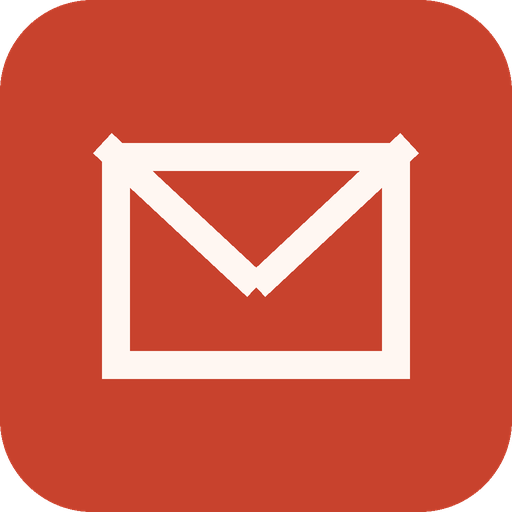
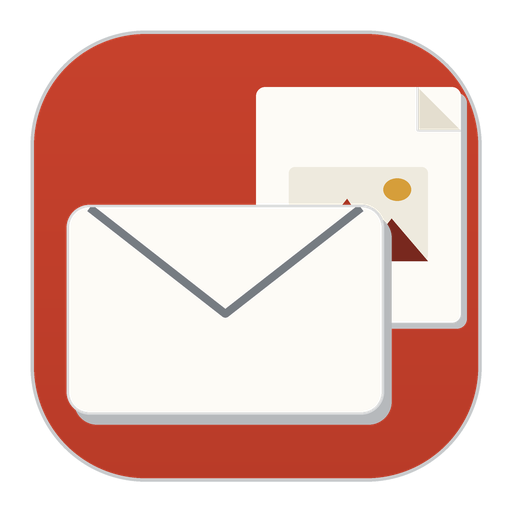
feat: 产品更名「邮箱资料助手」+ 新应用图标（信封/图稿）；NSIS 强制创建桌面与开始菜单快捷方式（中文名+图标）

diff --git a/src/main/index.ts b/src/main/index.ts
@@ -172,7 +172,7 @@ async function createWindow(): Promise<void> {
     minWidth: 1280,
     minHeight: 780,
     show: false,
-    title: 'MailHarbor',
+    title: '邮箱资料助手',
     backgroundColor: '#FAF7F0',
     autoHideMenuBar: true,
     webPreferences: {
@@ -219,7 +219,7 @@ function createTray(): void {
   const iconPath = resolveTrayIcon()
   const img = iconPath ? nativeImage.createFromPath(iconPath) : nativeImage.createEmpty()
   tray = new Tray(img.isEmpty() ? nativeImage.createEmpty() : img)
-  tray.setToolTip('MailHarbor · 邮件收货助手')
+  tray.setToolTip('邮箱资料助手')
   tray.on('double-click', () => showWindow())
   tray.on('click', () => showWindow())
   refreshTray()
@@ -253,7 +253,7 @@ function refreshTray(): void {
     },
     { type: 'separator' },
     {
-      label: '退出 MailHarbor',
+      label: '退出邮箱资料助手',
       click: () => {
         quitting = true
         app.quit()

diff --git a/src/renderer/index.html b/src/renderer/index.html
@@ -4,7 +4,7 @@
     <meta charset="UTF-8" />
     <meta name="viewport" content="width=device-width, initial-scale=1.0" />
     <meta http-equiv="Content-Security-Policy" content="default-src 'self'; style-src 'self' 'unsafe-inline'; img-src 'self' data:; script-src 'self'; connect-src 'self'" />
-    <title>MailHarbor · 邮件收货助手</title>
+    <title>邮箱资料助手</title>
   </head>
   <body>
     <div id="root"></div>

diff --git a/src/renderer/components/Sidebar.tsx b/src/renderer/components/Sidebar.tsx
@@ -75,8 +75,8 @@ export function Sidebar(): JSX.Element {
           <BrandMark size={26} />
         </span>
         <div>
-          <div className="brand-name">MailHarbor</div>
-          <div className="brand-sub">邮件附件自动归档</div>
+          <div className="brand-name">邮箱资料助手</div>
+          <div className="brand-sub">客户邮件自动归档</div>
         </div>
       </div>
 

diff --git a/scripts/make-icon.py b/scripts/make-icon.py
@@ -1,0 +1,108 @@
+#!/usr/bin/env python3
+"""生成「邮箱资料助手」应用图标（1024 PNG + 多尺寸 ICO + 托盘图标）。
+
+图形：朱红圆角底 + 白色信封（V 形封口）+ 右上角探出的图稿纸（折角 + 图片符号）。
+含义：邮件里收到图稿 → 自动归档。小尺寸下先看得清「信封」，再看清「纸」。
+"""
+from PIL import Image, ImageDraw
+from pathlib import Path
+
+ROOT = Path(__file__).resolve().parent.parent
+RES = ROOT / 'resources'
+RES.mkdir(exist_ok=True)
+
+S = 2048
+BRAND = (200, 66, 45)
+BRAND_DARK = (156, 47, 32)
+PAPER = (253, 251, 246)
+INK = (22, 32, 43)
+AMBER = (214, 158, 58)
+RED2 = (168, 51, 33)
+
+img = Image.new('RGBA', (S, S), (0, 0, 0, 0))
+pad = int(S * 0.06)
+radius = int(S * 0.225)
+
+# --- 底：圆角方形，竖向渐变（用遮罩裁剪，避免溢出圆角） ---
+base = Image.new('RGBA', (S, S), (0, 0, 0, 0))
+bd = ImageDraw.Draw(base)
+for y in range(S):
+    t = y / S
+    color = tuple(int(BRAND[i] * (1 - t * 0.35) + BRAND_DARK[i] * (t * 0.35)) for i in range(3))
+    bd.line([0, y, S, y], fill=(*color, 255))
+mask = Image.new('L', (S, S), 0)
+ImageDraw.Draw(mask).rounded_rectangle([pad, pad, S - pad, S - pad], radius=radius, fill=255)
+img.paste(base, (0, 0), mask)
+d = ImageDraw.Draw(img)
+
+# 内描边，小尺寸更清晰
+d.rounded_rectangle([pad, pad, S - pad, S - pad], radius=radius, outline=(*INK, 60), width=int(S * 0.007))
+
+# --- 图稿纸（右上，部分藏在信封后） ---
+pw, ph = int(S * 0.40), int(S * 0.46)
+px, py = int(S * 0.50), int(S * 0.17)
+fold = int(S * 0.085)
+# 阴影
+d.rounded_rectangle([px + int(S * 0.012), py + int(S * 0.012), px + pw + int(S * 0.012), py + ph + int(S * 0.012)],
+                    radius=int(S * 0.02), fill=(*INK, 70))
+# 纸
+d.rounded_rectangle([px, py, px + pw, py + ph], radius=int(S * 0.018), fill=PAPER)
+# 折角
+d.polygon([(px + pw - fold, py), (px + pw, py + fold), (px + pw - fold, py + fold)], fill=(228, 222, 207))
+d.line([(px + pw - fold, py), (px + pw - fold, py + fold), (px + pw, py + fold)],
+       fill=(*INK, 45), width=int(S * 0.004))
+
+# 纸上的图片符号：画框 + 山 + 太阳
+mx, my = px + int(pw * 0.16), py + int(ph * 0.34)
+mw, mh = int(pw * 0.68), int(ph * 0.40)
+d.rounded_rectangle([mx, my, mx + mw, my + mh], radius=int(S * 0.012), fill=(238, 234, 222))
+d.ellipse([mx + mw * 0.68, my + int(mh * 0.12), mx + mw * 0.88, my + int(mh * 0.36)], fill=AMBER)
+d.polygon([(mx + int(mw * 0.06), my + mh), (mx + int(mw * 0.42), my + int(mh * 0.34)), (mx + int(mw * 0.72), my + mh)], fill=RED2)
+d.polygon([(mx + int(mw * 0.50), my + mh), (mx + int(mw * 0.74), my + int(mh * 0.55)), (mx + mw, my + mh)], fill=(120, 40, 30))
+
+# --- 信封（左下，主体） ---
+ex0, ey0 = int(S * 0.13), int(S * 0.40)
+ex1, ey1 = int(S * 0.75), int(S * 0.81)
+er = int(S * 0.045)
+# 阴影
+d.rounded_rectangle([ex0 + int(S * 0.015), ey0 + int(S * 0.02), ex1 + int(S * 0.015), ey1 + int(S * 0.02)],
+                    radius=er, fill=(*INK, 80))
+# 信封主体
+d.rounded_rectangle([ex0, ey0, ex1, ey1], radius=er, fill=PAPER)
+# 封口 V（只在上半部分）
+vtop = ey0 + int(S * 0.006)
+vbottom = ey0 + int((ey1 - ey0) * 0.52)
+d.line([(ex0 + er, vtop), ((ex0 + ex1) // 2, vbottom), (ex1 - er, vtop)],
+       fill=(*INK, 150), width=int(S * 0.016), joint='curve')
+# 信封边缘
+d.rounded_rectangle([ex0, ey0, ex1, ey1], radius=er, outline=(*INK, 45), width=int(S * 0.005))
+
+# --- 导出 ---
+big = img.resize((1024, 1024), Image.LANCZOS)
+big.save(RES / 'icon.png')
+big.resize((512, 512), Image.LANCZOS).save(RES / 'icon-512.png')
+sizes = [(256, 256), (128, 128), (64, 64), (48, 48), (32, 32), (16, 16)]
+big.resize((256, 256), Image.LANCZOS).save(RES / 'icon.ico', sizes=sizes)
+
+# 托盘：小尺寸只留信封 + 朱红底
+for size in (16, 32, 64):
+    T = size * 8
+    t = Image.new('RGBA', (T, T), (0, 0, 0, 0))
+    td = ImageDraw.Draw(t)
+    td.rounded_rectangle([0, 0, T - 1, T - 1], radius=int(T * 0.22), fill=BRAND)
+    m = int(T * 0.18)
+    td.rounded_rectangle([m, int(T * 0.3), T - m, int(T * 0.74)], radius=int(T * 0.06), fill=PAPER)
+    td.line([(m + int(T * 0.02), int(T * 0.32)), (T // 2, int(T * 0.55)), (T - m - int(T * 0.02), int(T * 0.32))],
+            fill=(*INK, 200), width=max(2, int(T * 0.045)))
+    t.resize((size, size), Image.LANCZOS).save(RES / f'tray{size}.png')
+    if size == 32:
+        t.resize((32, 32), Image.LANCZOS).save(RES / 'tray.png')
+
+# 预览图（给设计说明/README 用）
+preview = Image.new('RGB', (1200, 420), (250, 247, 240))
+for i, s in enumerate([256, 128, 64, 48, 32, 16]):
+    ic = big.resize((s, s), Image.LANCZOS)
+    x = 60 + i * 190 if i < 5 else 60 + 5 * 190 + 40
+    preview.paste(ic, (x, 90 + (256 - s) // 2), ic)
+preview.save(ROOT / 'design' / 'exports' / 'app-icon-preview.png')
+print('icon.png 1024 | icon.ico 256/128/64/48/32/16 | tray 16/32/64 | preview ok')

diff --git a/README.md b/README.md
@@ -1,6 +1,6 @@
-# MailHarbor · 邮件收货助手
+# 邮箱资料助手（MailHarbor）
 
-> 给 POD（按需印刷定制）工厂用的 Windows 桌面软件：
+> 给 POD（按需印刷定制）工厂用的 Windows 桌面软件「**邮箱资料助手**」（代码仓库名 mailharbor）：
 > **IMAP 收信 → 按邮件标题关键词（如「原图+卡套」）判断要不要存 → 把 ZIP/TIF 附件复制到该关键词对应的一个或多个本地文件夹 → SMTP 回信告诉客户"已收到"。**
 
 ```
@@ -107,6 +107,9 @@ mail-harbor/
 ## Windows 虚拟机 / 真机验收（一键脚本）
 
 安装包：<https://github.com/moneyfly006/mailharbor/releases/latest>（`MailHarbor-Setup-*.exe`）
+
+> 安装后：桌面会出现 **「邮箱资料助手」** 快捷方式（朱红信封图标），开始菜单同名入口。
+> 旧版（MailHarbor）请先在「应用和功能」里卸载，避免新旧两个目录并存。
 
 1. 把安装包和 `scripts/windows/` 里的两个文件一起放进 Windows；
 2. 双击 **`一键安装并测试.bat`**（或右键 PowerShell 运行 `install-and-test.ps1`）；
